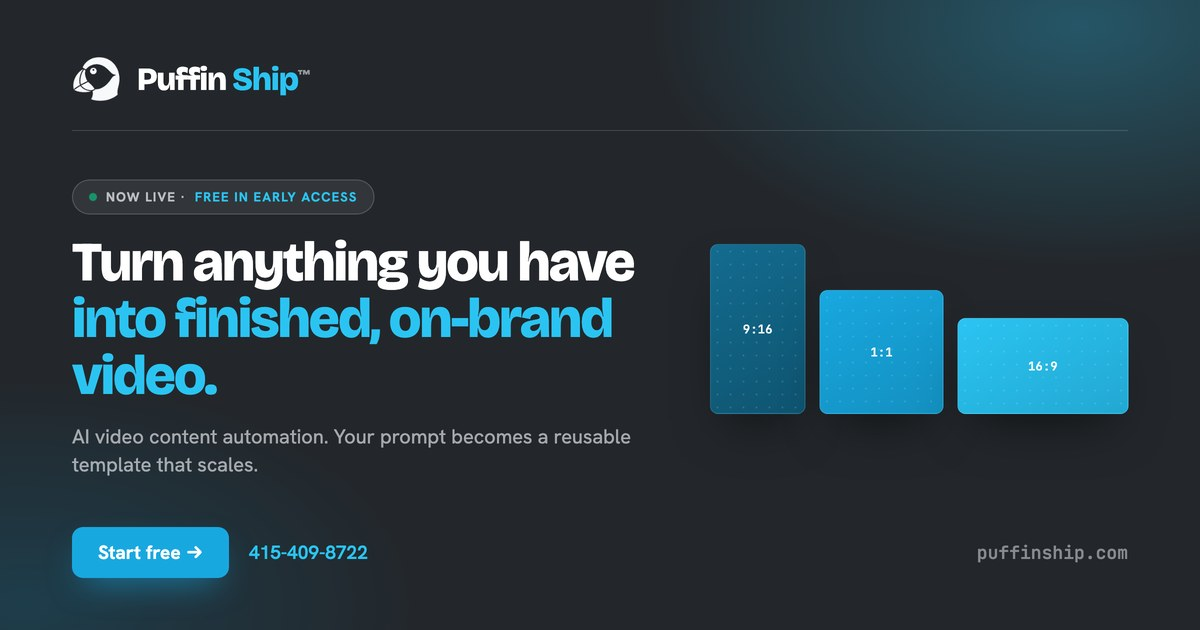
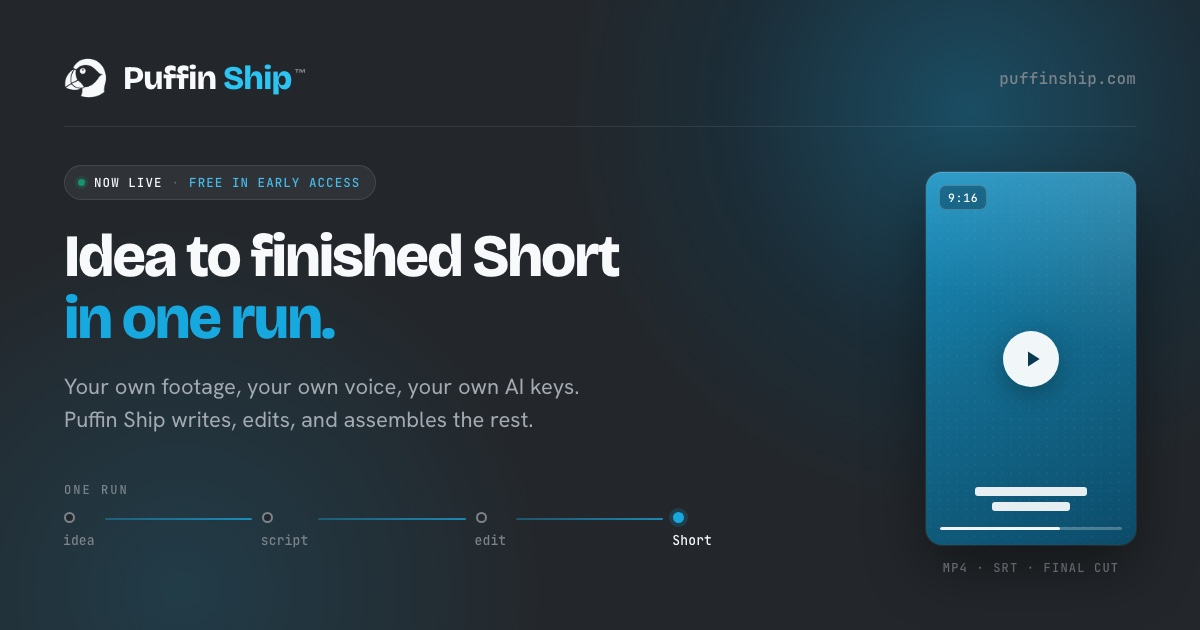
Refresh share card, cut unsupported claims
New 1200x630 social card leading with the outcome positioning: idea to
finished Short in one run, with your own footage, voice, and AI keys.
Matches the current site's dark ink/sky-blue system and type. og:image
and twitter:image alt + description text updated to match; dimensions
verified at 1200x630.

Claims, keeping only what we can deliver:

- Remove the white-label promise from the pricing fine print and
  llms.txt. Nothing in the product or docs backs it.
- Replace vague "fair-use limits" with honest early-access framing:
  usage limits apply while we scale up, with a contact path for higher
  limits. No invented numbers.
- Stop implying one run emits every aspect ratio. Output ratio is a
  per-template setting, so the formats section, the "sized for every
  channel" tile, the hero mockup labels, and llms.txt now say that.

diff --git a/index.html b/index.html
@@ -48,20 +48,20 @@
   <meta property="og:type" content="website" />
   <meta property="og:site_name" content="Puffin Ship" />
   <meta property="og:title" content="Puffin Ship: AI Video Content Automation" />
-  <meta property="og:description" content="Turn clips, ideas, and recordings into finished, on-brand video. Your prompt builds a reusable template that scales. Free during early access." />
+  <meta property="og:description" content="Idea to finished Short in one run, with your own footage, your own voice, and your own AI keys. Your prompt builds a reusable template that scales. Free during early access." />
   <meta property="og:url" content="https://puffinship.com/" />
   <meta property="og:image" content="https://puffinship.com/assets/og-image.jpg" />
   <meta property="og:image:type" content="image/jpeg" />
   <meta property="og:image:width" content="1200" />
   <meta property="og:image:height" content="630" />
-  <meta property="og:image:alt" content="Puffin Ship — turn anything you have into finished, on-brand video. Free during early access." />
+  <meta property="og:image:alt" content="Puffin Ship — idea to finished Short in one run, with your own footage, your own voice, and your own AI keys. Free in early access." />
 
   <!-- Twitter / X -->
   <meta name="twitter:card" content="summary_large_image" />
   <meta name="twitter:title" content="Puffin Ship: AI Video Content Automation" />
-  <meta name="twitter:description" content="Turn clips, ideas, and recordings into finished, on-brand video. Your prompt builds a reusable template that scales. Free during early access." />
+  <meta name="twitter:description" content="Idea to finished Short in one run, with your own footage, your own voice, and your own AI keys. Your prompt builds a reusable template that scales. Free during early access." />
   <meta name="twitter:image" content="https://puffinship.com/assets/og-image.jpg" />
-  <meta name="twitter:image:alt" content="Puffin Ship — turn anything you have into finished, on-brand video. Free during early access." />
+  <meta name="twitter:image:alt" content="Puffin Ship — idea to finished Short in one run, with your own footage, your own voice, and your own AI keys. Free in early access." />
 
   <!-- Business contact info, plainly stated for crawlers/AI agents that read meta tags -->
   <meta property="business:contact_data:email" content="info@puffinship.com" />
@@ -105,7 +105,7 @@
           "price": "0",
           "priceCurrency": "USD",
           "category": "Free early access",
-          "description": "The Puffin Ship platform is free to use during early access, with no credit card required. Usage limits apply. Steps that call third-party AI services run on your own API keys and are billed to you directly by those providers."
+          "description": "The Puffin Ship platform is free to use during early access, with no credit card required. Usage limits apply while we scale up, and higher limits are available on request. Steps that call third-party AI services run on your own API keys and are billed to you directly by those providers."
         }
       },
       {
@@ -124,7 +124,7 @@
             "name": "How much does Puffin Ship cost?",
             "acceptedAnswer": {
               "@type": "Answer",
-              "text": "The Puffin Ship platform is free to use during early access. Create an account and start producing video with no credit card required. Usage limits apply while we are in early access."
+              "text": "The Puffin Ship platform is free to use during early access. Create an account and start producing video with no credit card required. Usage limits apply while we are in early access and scaling up; if you need higher limits, contact us at https://app.puffinship.com/contact."
             }
           },
           {
@@ -837,22 +837,22 @@
               <div class="thumb" style="background: linear-gradient(150deg,#136C90,#0f5470);">
                 <div class="thumb-grain"></div>
                 <span class="thumb-flag">Approved</span>
-                <span class="thumb-label">9:16</span>
+                <span class="thumb-label">0:28</span>
                 <span class="thumb-play"><svg width="15" height="15" viewBox="0 0 24 24" fill="currentColor"><polygon points="5 3 19 12 5 21 5 3"/></svg></span>
               </div>
               <div class="thumb" style="background: linear-gradient(150deg,#18A8E0,#1490c0);">
                 <div class="thumb-grain"></div>
-                <span class="thumb-label">16:9</span>
+                <span class="thumb-label">0:41</span>
                 <span class="thumb-play"><svg width="15" height="15" viewBox="0 0 24 24" fill="currentColor"><polygon points="5 3 19 12 5 21 5 3"/></svg></span>
               </div>
               <div class="thumb" style="background: linear-gradient(150deg,#2BC4F2,#22a8d2);">
                 <div class="thumb-grain"></div>
-                <span class="thumb-label">1:1</span>
+                <span class="thumb-label">0:19</span>
                 <span class="thumb-play"><svg width="15" height="15" viewBox="0 0 24 24" fill="currentColor"><polygon points="5 3 19 12 5 21 5 3"/></svg></span>
               </div>
               <div class="thumb" style="background: linear-gradient(150deg,#2E89AD,#256d8a);">
                 <div class="thumb-grain"></div>
-                <span class="thumb-label">9:16</span>
+                <span class="thumb-label">0:33</span>
                 <span class="thumb-play"><svg width="15" height="15" viewBox="0 0 24 24" fill="currentColor"><polygon points="5 3 19 12 5 21 5 3"/></svg></span>
               </div>
             </div>
@@ -878,7 +878,8 @@
     <div class="wrap formats-inner">
       <div class="formats-head">
         <div class="eyebrow">Formats</div>
-        <h2 id="formats-h" class="formats-h3">One run, every cut your channels need</h2>
+        <h2 id="formats-h" class="formats-h3">Every ratio your channels need</h2>
+        <p class="section-sub">Set the output ratio on your template &mdash; 9:16, 1:1, or 16:9. Duplicate a template to run the same recipe for another channel.</p>
       </div>
       <div class="format-row">
         <div class="format">
@@ -992,7 +993,7 @@
         <div class="feat-tile">
           <div class="feat-icon"><svg width="24" height="24" viewBox="0 0 24 24" fill="none" stroke="currentColor" stroke-width="1.8" stroke-linecap="round" stroke-linejoin="round"><circle cx="18" cy="5" r="3"/><circle cx="6" cy="12" r="3"/><circle cx="18" cy="19" r="3"/><line x1="8.59" y1="13.51" x2="15.42" y2="17.49"/><line x1="15.41" y1="6.51" x2="8.59" y2="10.49"/></svg></div>
           <h3 class="feat-title">Sized for every channel</h3>
-          <p class="feat-desc">One run gives you the cuts you need: 9:16 for Reels and Shorts, 1:1 for feeds, 16:9 for YouTube and embeds.</p>
+          <p class="feat-desc">Set your template's output ratio: 9:16 for Reels and Shorts, 1:1 for feeds, 16:9 for YouTube and embeds.</p>
         </div>
       </div>
     </div>
@@ -1048,7 +1049,7 @@
             <span class="amt">$0</span>
             <span class="per">for the platform</span>
           </div>
-          <p class="free-sub">Everything listed here, no credit card. Fair-use limits apply while we're in early access.</p>
+          <p class="free-sub">Everything listed here, no credit card. Usage limits apply while we're in early access and scaling up.</p>
           <a href="https://app.puffinship.com/login" class="btn btn-primary btn-lg btn-block">
             <svg width="16" height="16" viewBox="0 0 24 24" fill="none" stroke="currentColor" stroke-width="2" stroke-linecap="round" stroke-linejoin="round"><path d="m12 3-1.912 5.813a2 2 0 0 1-1.275 1.275L3 12l5.813 1.912a2 2 0 0 1 1.275 1.275L12 21l1.912-5.813a2 2 0 0 1 1.275-1.275L21 12l-5.813-1.912a2 2 0 0 1-1.275-1.275L12 3z"/></svg>
             Start free
@@ -1073,7 +1074,7 @@
           <b>What the platform doesn't cover:</b> Puffin Ship doesn't resell AI. Steps that call outside services &mdash; transcription, AI video and image generation, AI presenters, voiceover &mdash; run on API keys you supply, and those providers bill you directly at their own rates. You only need keys for the services your template actually uses.
         </p>
       </div>
-      <p class="free-fineprint">Need higher volume, multiple client workspaces, or white-label? <a href="https://app.puffinship.com/contact" style="color: var(--accent); font-weight: 600;">Talk to us</a>.</p>
+      <p class="free-fineprint">Need higher limits or multiple client workspaces? <a href="https://app.puffinship.com/contact" style="color: var(--accent); font-weight: 600;">Talk to us</a> and we'll sort it out.</p>
     </div>
   </section>
 
